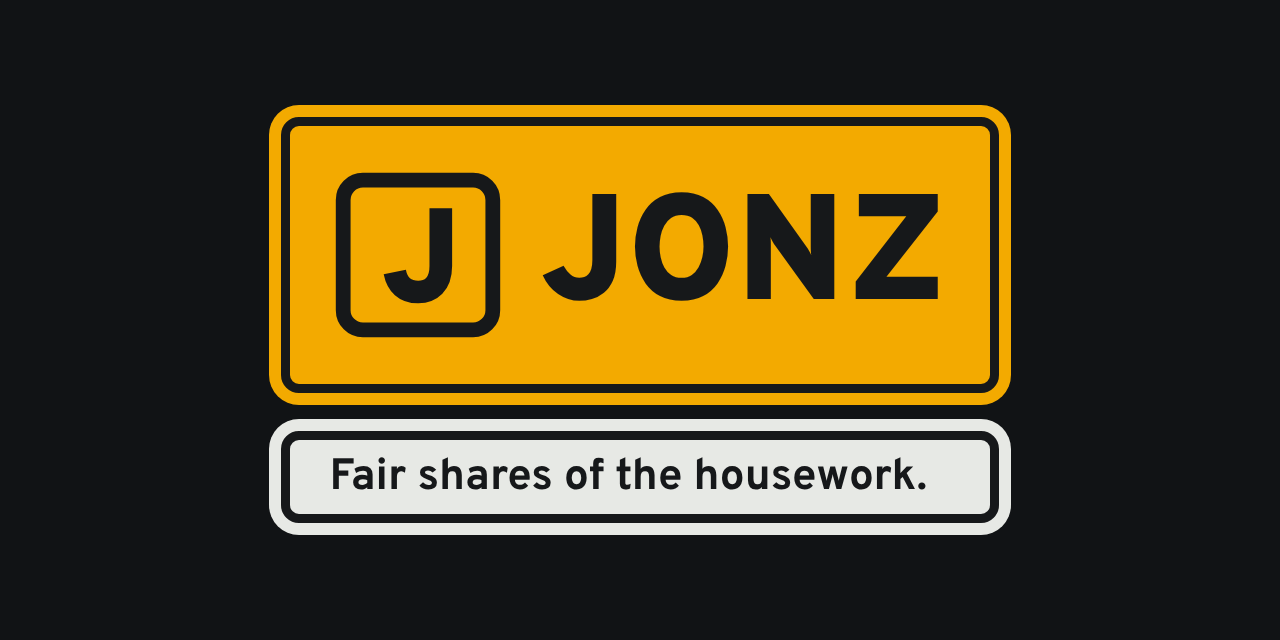
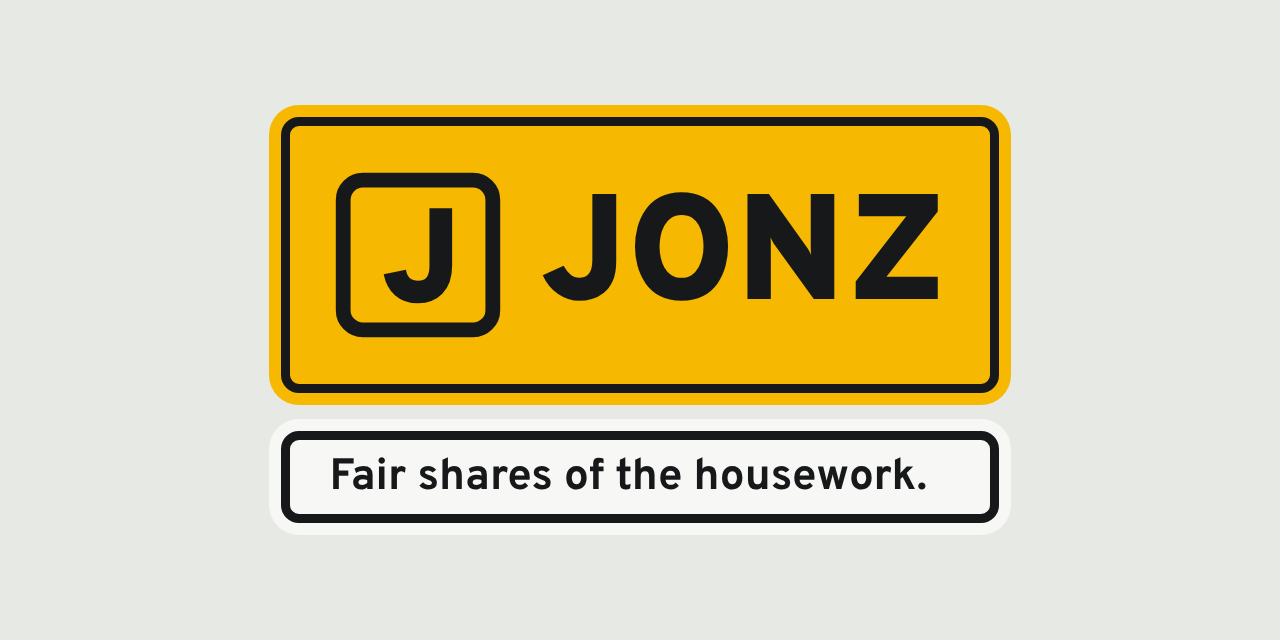
Post every sign on the pavement, in a yellower amber
An amber plate with black words on black is an adult site's logo, and
Jonz's cards read as it at a chat's thumbnail size. Every card, banner and
store frame is now posted on the pavement, with the small print on the
card colour; the dark README banner goes, since one banner suits both of
GitHub's themes. The amber moves a few degrees yellow, towards road-sign
amber: #F6B800 by day and #FFC21A after dark (ink on it is now 10:1).
After dark the lockup draws the sign in amber with no tile, in the app and
in lockup-on-dark.png, as the dark app icon already does.

Claude-Session: https://claude.ai/code/session_01C9nqXCHQBbMjbbKCSJUACu

diff --git a/apps/api/lib/share/card.tsx b/apps/api/lib/share/card.tsx
@@ -8,9 +8,10 @@ import { BIN_NIGHT, PLATE, SHARE_IMAGE, SHIELD, signLegendSize, signSvg, signWid
 
 /**
  * A join link's card, drawn by `next/og` (Satori) at 1200×630, the way
- * scripts/brand.mjs draws every other card: a sign posted on tarmac. The
- * amber plate carries the J like a route shield and the house's name in
- * Overpass Black caps; the pavement plate under it says who's in. Satori lays
+ * scripts/brand.mjs draws every other card: a sign posted on the pavement.
+ * The amber plate carries the J like a route shield and the house's name in
+ * Overpass Black caps; the plate under it says who's in. Never on black: an
+ * amber plate with black words on black reads as another brand's logo. Satori lays
  * out with flexbox only and can't read the app's theme, so the colours come
  * from Bin Night directly, and every element with more than one child says
  * `display: flex`.
@@ -19,7 +20,7 @@ import { BIN_NIGHT, PLATE, SHARE_IMAGE, SHIELD, signLegendSize, signSvg, signWid
 const INK = BIN_NIGHT.light.foreground;
 const AMBER = BIN_NIGHT.light.hivis;
 const PAVEMENT = BIN_NIGHT.light.background;
-const TARMAC = BIN_NIGHT.dark.background;
+const CARD = BIN_NIGHT.light.card;
 
 /** Overpass, vendored beside the API (next.config.ts keeps it in the bundle). */
 export async function cardFonts() {
@@ -63,7 +64,7 @@ export function Card({ sign }: { sign: ShareSign }) {
         display: "flex",
         alignItems: "center",
         justifyContent: "center",
-        backgroundColor: TARMAC,
+        backgroundColor: PAVEMENT,
         fontFamily: "Overpass",
       }}
     >
@@ -86,7 +87,7 @@ export function Card({ sign }: { sign: ShareSign }) {
           </div>
         </Plate>
         <div style={{ display: "flex", height: PLATE.gap }} />
-        <Plate ground={PAVEMENT} height={116}>
+        <Plate ground={CARD} height={116}>
           <div style={{ paddingTop: 4, fontSize: 44, fontWeight: 700 }}>{sign.plate}</div>
         </Plate>
       </div>

diff --git a/apps/client/src/components/wordmark.tsx b/apps/client/src/components/wordmark.tsx
@@ -6,15 +6,21 @@ import { FONT, useTheme } from '@/theme';
 
 /**
  * The sign: the J in its road-sign frame on its amber tile, the app icon's
- * drawing (packages/core/src/mark.ts). Below 48 it draws the small-size
+ * drawing (packages/core/src/mark.ts). After dark it is drawn in amber on
+ * the ground, as the dark app icon is: an amber tile beside a light word on
+ * black reads as another brand's logo. Below 48 it draws the small-size
  * master, whose lines hold up at a tab's size.
  */
 export function SignMark({ size = 32 }: { size?: number }) {
-  const { colors } = useTheme();
+  const { colors, scheme } = useTheme();
   const { frame, j } = signParts(size < SIGN_SMALL_BELOW ? SIGN_SMALL : SIGN);
+  const night = scheme === 'dark';
+  const ink = night ? colors.hivis : colors.onHivis;
+  // After dark the frame alone fills the box the tile would, less a hair.
+  const from = night ? frame.x - frame.stroke / 2 - 12 : 0;
   return (
-    <Svg width={size} height={size} viewBox="0 0 512 512" aria-hidden>
-      <Rect width={512} height={512} rx={TILE_RADIUS} fill={colors.hivis} />
+    <Svg width={size} height={size} viewBox={`${from} ${from} ${512 - 2 * from} ${512 - 2 * from}`} aria-hidden>
+      {night ? null : <Rect width={512} height={512} rx={TILE_RADIUS} fill={colors.hivis} />}
       <Rect
         x={frame.x}
         y={frame.y}
@@ -22,10 +28,10 @@ export function SignMark({ size = 32 }: { size?: number }) {
         height={frame.size}
         rx={frame.radius}
         fill="none"
-        stroke={colors.onHivis}
+        stroke={ink}
         strokeWidth={frame.stroke}
       />
-      <Path d={j.d} transform={j.transform} fill="none" stroke={colors.onHivis} strokeWidth={j.stroke} strokeLinejoin="round" />
+      <Path d={j.d} transform={j.transform} fill="none" stroke={ink} strokeWidth={j.stroke} strokeLinejoin="round" />
     </Svg>
   );
 }

diff --git a/packages/core/src/bin-night.ts b/packages/core/src/bin-night.ts
@@ -46,7 +46,7 @@ export const BIN_NIGHT: { light: BinNightScheme; dark: BinNightScheme; radius: n
     cardForeground: "#16181a",
     popover: "#f7f8f5",
     popoverForeground: "#16181a",
-    primary: "#f3aa00",
+    primary: "#f6b800",
     primaryForeground: "#16181a",
     secondary: "#dde0db",
     secondaryForeground: "#16181a",
@@ -58,7 +58,7 @@ export const BIN_NIGHT: { light: BinNightScheme; dark: BinNightScheme; radius: n
     border: "#c5c9c3",
     input: "#c5c9c3",
     ring: "#16181a",
-    hivis: "#f3aa00",
+    hivis: "#f6b800",
     onHivis: "#16181a",
     hazard: "#c8410c",
     onHazard: "#ffffff",
@@ -81,7 +81,7 @@ export const BIN_NIGHT: { light: BinNightScheme; dark: BinNightScheme; radius: n
     cardForeground: "#edefeb",
     popover: "#1a1d20",
     popoverForeground: "#edefeb",
-    primary: "#ffb81c",
+    primary: "#ffc21a",
     primaryForeground: "#111315",
     secondary: "#24282c",
     secondaryForeground: "#edefeb",
@@ -92,8 +92,8 @@ export const BIN_NIGHT: { light: BinNightScheme; dark: BinNightScheme; radius: n
     destructive: "#ff7a3d",
     border: "#2c3135",
     input: "#2c3135",
-    ring: "#ffb81c",
-    hivis: "#ffb81c",
+    ring: "#ffc21a",
+    hivis: "#ffc21a",
     onHivis: "#111315",
     hazard: "#ff7a3d",
     onHazard: "#1c0b03",

diff --git a/docs/brand/README.md b/docs/brand/README.md
@@ -1,9 +1,6 @@
 # The Jonz brand
 
-<picture>
-  <source media="(prefers-color-scheme: dark)" srcset="readme-banner-dark.png">
-  <img alt="Jonz" src="readme-banner-light.png" width="640">
-</picture>
+<img alt="Jonz" src="readme-banner.png" width="640">
 
 Jonz wears Bin Night, the app's house style: council signage on a street at
 night. This page is how the brand is used outside the app's own screens, and
@@ -17,10 +14,11 @@ and run it again.
 | | |
 | --- | --- |
 | ![The sign](icon-512.png) | **The sign** is the J in its road-sign frame on hi-vis amber. It stands alone wherever the name is already said: the app icon, the favicon, a profile picture, a notification. |
-| ![The lockup](lockup.png) | **The lockup** is the sign beside JONZ in Overpass Black, in caps. Use it where people meet Jonz for the first time: the front door, a card, an email, the README. On dark grounds use `lockup-on-dark.png`. |
+| ![The lockup](lockup.png) | **The lockup** is the sign beside JONZ in Overpass Black, in caps. Use it where people meet Jonz for the first time: the front door, a card, an email, the README. On dark grounds use `lockup-on-dark.png`, where the sign is drawn in amber on the ground. |
 
 - Give it clear space all round about one J stroke wide, the frame's corner radius.
-- Never recolour, stretch, outline or rotate the sign. On amber it is inked in tarmac; on tarmac, the sign keeps its amber tile.
+- Never recolour, stretch or rotate the sign. On amber it is inked in tarmac. On a dark ground it is drawn in amber with no tile, as the dark app icon and the app's own lockup after dark are.
+- Never put an amber box with black or white words on black. That pairing is another brand's logo (an adult site's), and an amber sign on black reads as it at a chat's thumbnail size. Signs go on the pavement.
 - Below 48px the small-size master takes over (`SIGN_SMALL`), with a heavier frame and a bigger J, so the lines hold up in a browser tab. `favicon.svg`, `favicon.ico` and the app's own lockup at small sizes use it.
 - The name is "Jonz" in a sentence and JONZ in the lockup. One chore is a John.
 
@@ -29,10 +27,10 @@ and run it again.
 Anything Jonz says out loud is posted as a road sign: a link's card, the
 README banner, the email header, a store headline. The amber plate carries
 the J at its left like a route shield, and the legend in Overpass Black
-caps; under it hangs a pavement plate with the small print, as a
+caps; under it hangs a pale plate with the small print, as a
 supplementary plate hangs under a road sign. Both plates have an ink border
 inset from the edge (`PLATE` in `packages/core/src/mark.ts`), and the
-assembly is posted on tarmac, the street at night.
+assembly is posted on the pavement, never on black.
 
 ![The JONZ sign, every jonz.app link's card](../../apps/client/public/og.png)
 
@@ -47,15 +45,15 @@ assembly is posted on tarmac, the street at night.
 
 | Colour | Hex | Job |
 | --- | --- | --- |
-| Hi-vis amber | `#F3AA00` (`#FFB81C` after dark) | The one thing to do, the sign, buttons that matter. A fill with tarmac on it, never text on a light ground (1.6:1). |
-| Tarmac | `#16181A` | Ink, and the ground of the join link's card. |
-| Pavement | `#E7E9E5` | The light ground. |
+| Hi-vis amber | `#F6B800` (`#FFC21A` after dark) | The one thing to do, the sign, buttons that matter. A fill with tarmac on it, never text on a light ground (1.5:1). Road-sign amber, kept on the yellow side of orange. |
+| Tarmac | `#16181A` | Ink. Never the ground of a sign. |
+| Pavement | `#E7E9E5` | The light ground, and the ground every sign is posted on. |
 | Wet tarmac | `#111315` | The dark ground. |
 | Hazard | `#C8410C` | Late and missed only. |
 | Done | `#2E7D32` | Done only. |
 
 The bin-lid colours (one per kind of John) live in the app and stay out of
-marketing. Amber on tarmac is 9:1, tarmac on pavement 14.6:1.
+marketing. Tarmac on amber is 10:1, tarmac on pavement 14.6:1.
 
 ## Type
 
@@ -96,7 +94,7 @@ form is "Fair shares of the housework." The social handle is @jonz.app.
 | A join link pasted in a chat | drawn per house by `apps/api/app/api/og/join/[code]` | 1200×630 |
 | Email header | `email-header.png`, shown at 600×120 | 1200×240 |
 | Repo social preview | `social-preview.png` | 1280×640 |
-| README banner | `readme-banner-light.png`, `readme-banner-dark.png` | 1280×360 |
+| README banner | `readme-banner.png`, the same in GitHub's light and dark | 1280×360 |
 | Stripe, App Store and Play icon | `icon-512.png`, `icon-1024.png` | 512, 1024 |
 | Google sign-in screen | `logo-120.png` | 120 |
 | Profile picture (Instagram, TikTok, X) | `profile-400.png` | 400 |
@@ -131,7 +129,7 @@ For GitHub in Safari, tap **aA**, then **Request Desktop Website**.
 
 1. **Stripe** (Checkout, the billing page and receipts). Open
    [Branding settings](https://dashboard.stripe.com/settings/branding):
-   icon `icon-512.png`, logo `lockup.png`, brand colour `#F3AA00`, accent
+   icon `icon-512.png`, logo `lockup.png`, brand colour `#F6B800`, accent
    `#16181A`. Do the same in the sandbox. Under
    [Emails](https://dashboard.stripe.com/settings/emails), turn on
    successful payment receipts so they carry the brand.

diff --git a/README.md b/README.md
@@ -1,9 +1,6 @@
 <p align="center">
   <a href="https://jonz.app">
-    <picture>
-      <source media="(prefers-color-scheme: dark)" srcset="docs/brand/readme-banner-dark.png">
-      <img alt="Jonz. Fair shares of the housework, and a house that keeps score." src="docs/brand/readme-banner-light.png" width="720">
-    </picture>
+    <img alt="Jonz. Fair shares of the housework, and a house that keeps score." src="docs/brand/readme-banner.png" width="720">
   </a>
 </p>
 
